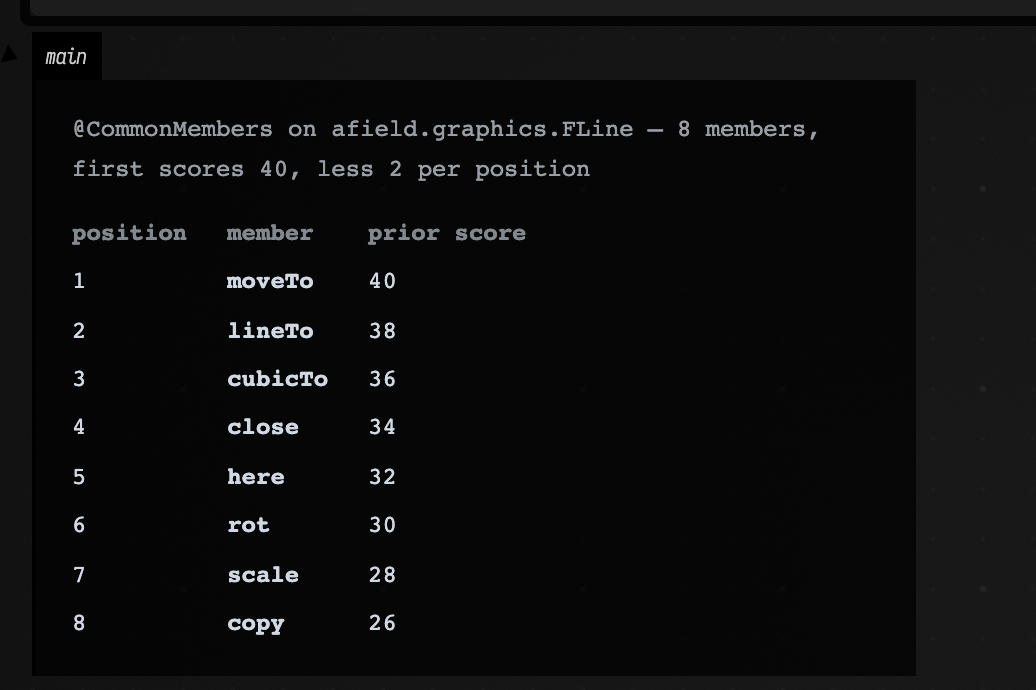
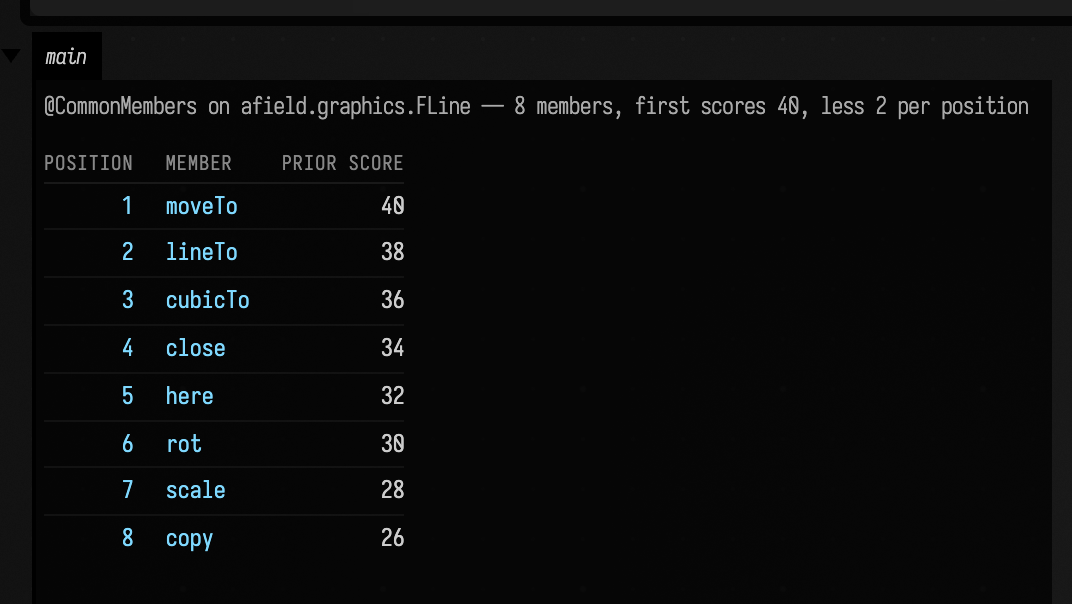
refactor(docs): the last two one-table figures, and a divergence one of them hid
keybindings.md and how_the_popup_decides.md each built one table by hand. Both are
now `Table` inside a `markdown()` card, which also gives them the header row neither
had — the keybindings figure previously showed five rows of command-and-shortcut with
nothing saying which column was which.

Two things the migration bought beyond markup:

- keybindings: a command with no binding yet takes `CellRole.WARN`, so the row the
  figure exists to show reads differently from the rest instead of identically.
- popup: the heading claims "first scores BASE, less STEP per position", and that is
  now a `check` over the live prior rather than a sentence. The rows are also sorted
  by position instead of trusting the map's iteration order, so the figure is the
  same every capture.

The keybindings fence carries `macro-file=` and `capture-box=`, so the figure is
generated from dev_docs/agents/transcripts/docs_capture/keybindings_inspect.yaml and
*not* from the code the page displays — the same code exists twice, by hand, and
nothing checks that the copies agree. Editing only the page produced a figure in the
old HTML layout sitting beside markdown source, which is how I noticed. Both copies
are updated and diffed to confirm they now match.

visualizers.md needed no change: its only `<tr><td style=…>` is inside a sentence
describing this very anti-pattern. My earlier count attributed it to a display() call
by proximity and was wrong.
[…]

diff --git a/public/docs/how_the_popup_decides.md b/public/docs/how_the_popup_decides.md
@@ -293,27 +293,24 @@ the band moves, the figure moves with it on the next docs build.
 val receiver = "afield.graphics.FLine"
 val ranks = afield.CommonMemberPrior.ranksFor(receiver)
 
-val cell = "padding:2px 20px 2px 0"
-val rows = ranks.entries.joinToString("") { (member, position) ->
-    val score = afield.CommonMemberPrior.scoreOf(position)
-    "<tr><td style=\"$cell\">$position</td>" +
-        "<td style=\"$cell\"><b>$member</b></td>" +
-        "<td style=\"padding:2px 0\">$score</td></tr>"
-}
+// Sorted by position rather than trusting the map's iteration order, so the figure is the same
+// every time it is captured.
+val prior = Table(listOf("position", "member", "prior score"))
+    .rows(ranks.entries.sortedBy { it.value }.map { (member, position) ->
+        listOf(position, member, afield.CommonMemberPrior.scoreOf(position))
+    })
+    .role("member", CellRole.ACCENT)
 
-display("main", """
-  <div style="font:12px/1.7 ui-monospace,monospace;color:#cfd8e3;padding:10px 14px">
-    <div style="opacity:0.72">@CommonMembers on $receiver — ${ranks.size} members, first scores
-      ${afield.CommonMemberPrior.BASE}, less ${afield.CommonMemberPrior.STEP} per position</div>
-    <table style="margin-top:9px;border-collapse:collapse">
-      <tr style="opacity:0.62;text-align:left">
-        <th style="$cell">position</th>
-        <th style="$cell">member</th>
-        <th style="padding:2px 0">prior score</th>
-      </tr>
-      $rows
-    </table>
-  </div>
+// The arithmetic the heading claims, as an assertion rather than a sentence.
+check(ranks.all { (_, position) ->
+    afield.CommonMemberPrior.scoreOf(position) ==
+        afield.CommonMemberPrior.BASE - afield.CommonMemberPrior.STEP * (position - 1)
+}) { "the prior is no longer BASE less STEP per position" }
+
+markdown("main", """
+    {muted:@CommonMembers on ${mdEscape(receiver)} — ${ranks.size} members, first scores ${afield.CommonMemberPrior.BASE}, less ${afield.CommonMemberPrior.STEP} per position}
+
+    ${prior.h}
 """)
 ```
 

diff --git a/public/docs/reference/index.md b/public/docs/reference/index.md
@@ -199,7 +199,7 @@ The "documented" column is the honest one: it is a coverage report on Field's ow
 | [Summaries.kt](polytopes.md#summaries-kt) | Polytopes | 58 | 43 | Small, plain data classes that reduce the library's big values to something worth reading. |  |
 | [Symmetry.kt](polytopes.md#symmetry-kt) | Polytopes | 32 | 17 | Symmetry as a combinatorial fact, and as something a solver can be asked for. | [Polytopes: topology first, coordinates later](../polytope_examples.md) |
 | [synth.kt](synthesis.md#synth-kt) | Synthesis | 78 | 19 |  | [Making a sound in Field: every path there is](../sound_paths.md) |
-| [tables.kt](visualization.md#tables-kt) | Visualization | 31 | 31 | Tabular output — the structure, and the one renderer for it. | [Frames, and what a frame is](../animation_time_model.md) |
+| [tables.kt](visualization.md#tables-kt) | Visualization | 31 | 31 | Tabular output — the structure, and the one renderer for it. | [Frames, and what a frame is](../animation_time_model.md), [How the popup decides](../how_the_popup_decides.md), [Keyboard shortcuts, and how to change them](../keybindings.md) |
 | [TidalPatterns.kt](patterns.md#tidalpatterns-kt) | Patterns | 170 | 35 |  | [Patterns: writing rhythm as a function of time](../pattern_language.md), [Petri nets: rhythm, structure and control, in one graph](../petri_nets.md), [Sonic Pi](../sonic_pi.md) |
 | [timeseries.kt](math.md#timeseries-kt) | Math | 212 | 212 | Streaming, time-domain filters over `Float` signals — the sample-at-a-time counterpart to the frequency-domain code in `spectral.kt`. | [Timeseries examples](../timeseries_examples.md), [Spectral examples](../spectral_examples.md) |
 | [Topology.kt](polytopes.md#topology-kt) | Polytopes | 89 | 61 | The abstract incidence complex — the authoritative value in `afield.stdlib.polytope`, and the one layer that knows nothing about coordinates. | [Polytopes: topology first, coordinates later](../polytope_examples.md) |

diff --git a/public/docs/keybindings.md b/public/docs/keybindings.md
@@ -240,17 +240,21 @@ afield.UserKeybindingsManager.watchFile(null)
 
 val live = afield.UserKeybindingsManager.resolved
 val ids = listOf("new-box", "open-command-palette", "show-cheatsheet", "execute-fragment", "connect")
-val rows = ids.joinToString("") { id ->
-    val specs = (live.effective[id] ?: live.bindings[id])?.joinToString(" or ") ?: "not registered yet"
-    "<tr><td style=\"padding:1px 16px 1px 0\">$id</td><td>$specs</td></tr>"
-}
-display("main", """
-  <div style="font:12px/1.6 ui-monospace,monospace;color:#cfd8e3;padding:10px 12px">
-    <div style="opacity:0.65">${live.path}</div>
-    <div style="opacity:0.65">${live.problems.size} problem(s) in it</div>
-    <table style="margin-top:8px;border-collapse:collapse">$rows</table>
-  </div>
-""")
+// A command with no binding yet is the interesting row, so it says so in a role rather than
+// looking like any other cell.
+val bound = Table(listOf("command", "bound to"))
+    .rows(ids.map { id ->
+        listOf(id, (live.effective[id] ?: live.bindings[id])?.joinToString(" or ") ?: "not registered yet")
+    })
+    .roleBy("bound to") { if (it == "not registered yet") CellRole.WARN else null }
+
+markdown("main", """
+    {muted:${mdEscape(live.path)}}
+
+    {muted:${live.problems.size} problem(s) in it}
+
+    ${bound.h}
+""", width = 560)
 ```
 
 `effective` is the answer for every command Field has seen this run, override or default

diff --git a/public/docs/reference/visualization.md b/public/docs/reference/visualization.md
@@ -978,7 +978,7 @@ a string returned from a `Table.format` lambda is trusted HTML and inserted as-i
 
 `src/jvmMain/kotlin/afield/visualization/tables.kt`
 
-**Used in:** [Frames, and what a frame is](../animation_time_model.md)
+**Used in:** [Frames, and what a frame is](../animation_time_model.md), [How the popup decides](../how_the_popup_decides.md), [Keyboard shortcuts, and how to change them](../keybindings.md)
 
 ### Top-level functions { #tables-kt-functions }
 
